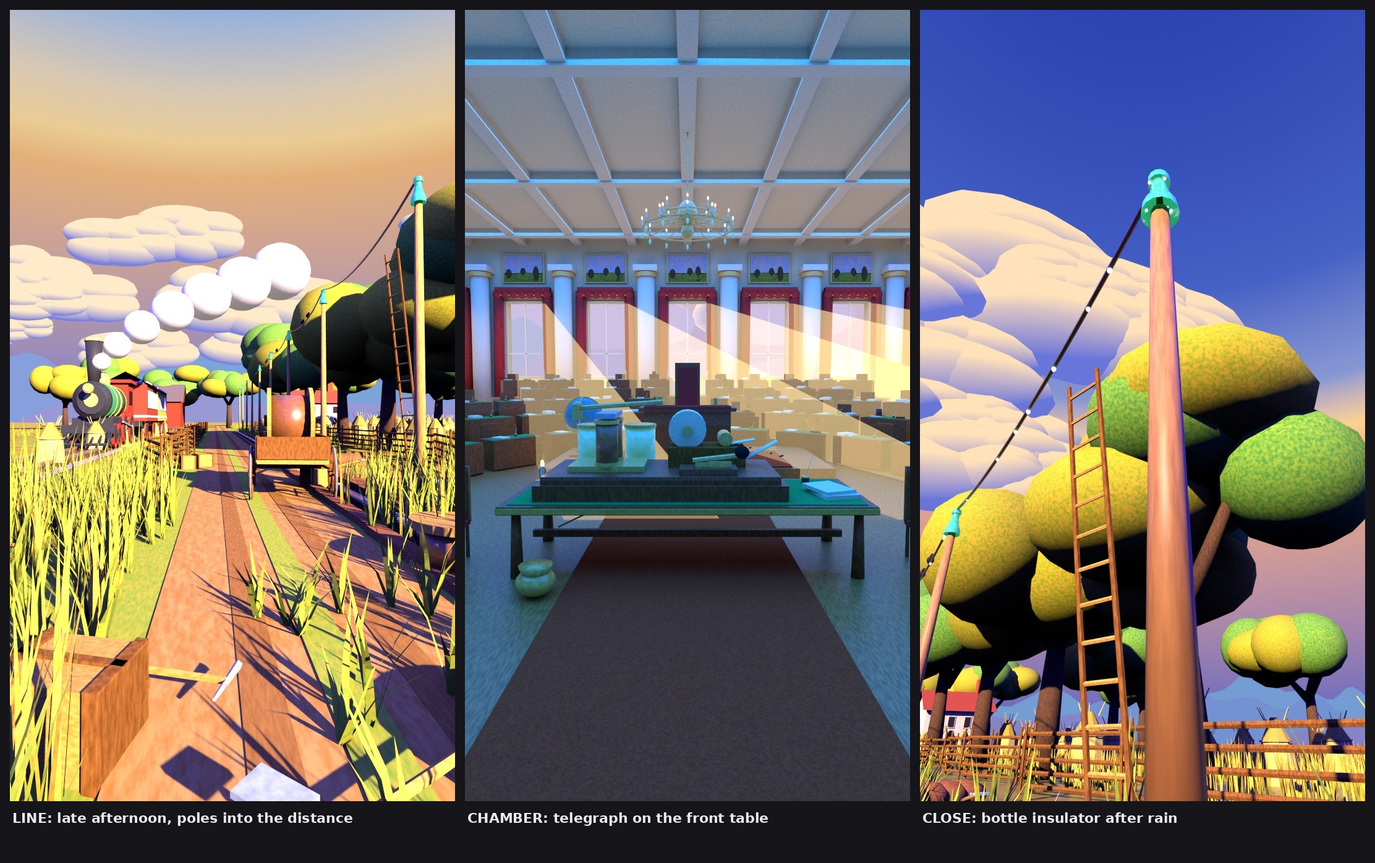
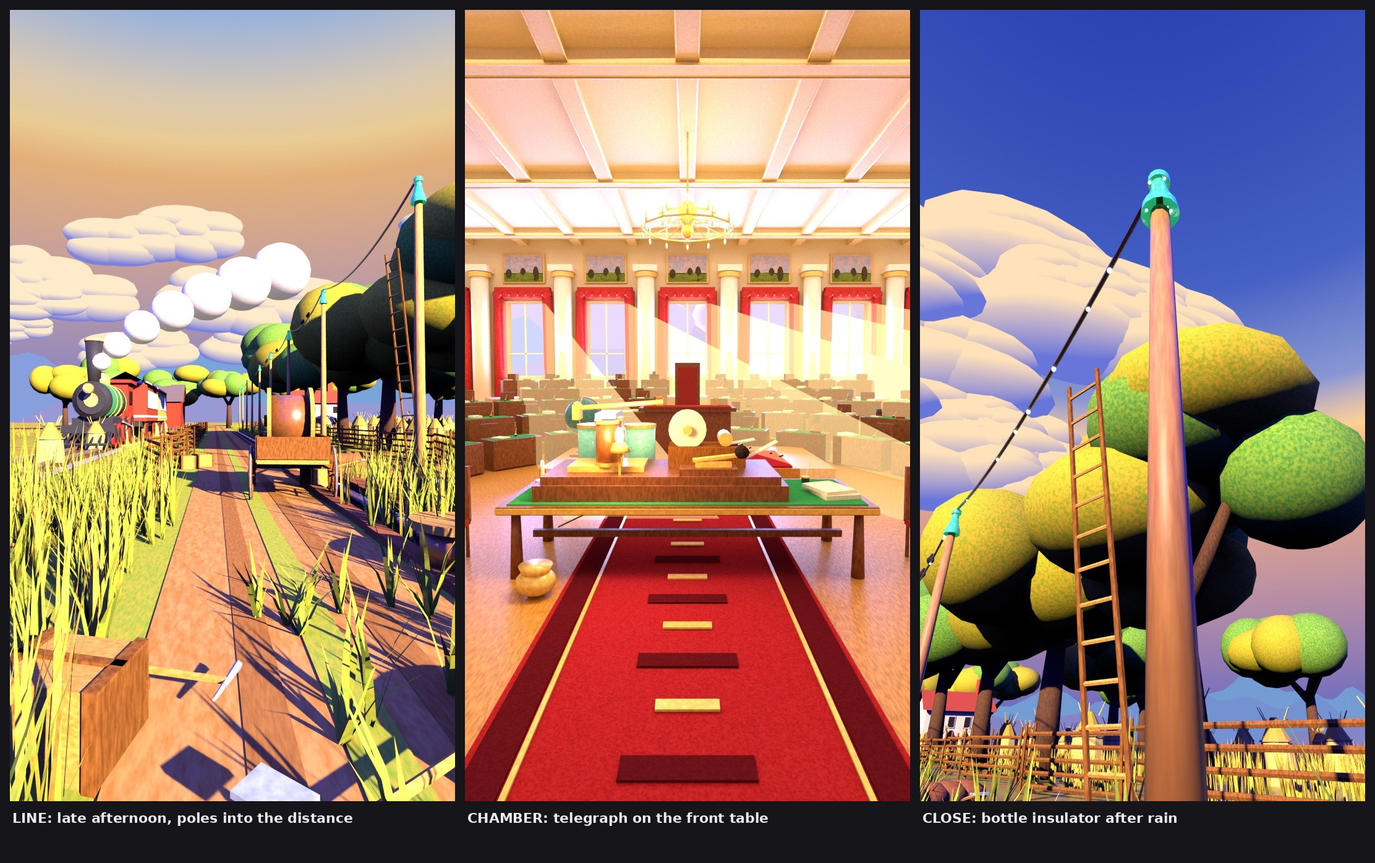
Film 16 style board v2: warm chamber; board ready for client
Claude-Session: https://claude.ai/code/session_017iwyCubH2HLT9mxU3qDwtU

Changed region(s): [[0.3103, 0.0, 0.6826, 0.9549]]

diff --git a/film/v3/set3d16/styleboard/sb.py b/film/v3/set3d16/styleboard/sb.py
@@ -181,8 +181,8 @@ def palette(mode):
     d['spool'] = mat('spool', '#a8602c', '#cc8040', 3, rough=0.35, sheen=0.8, wave=(90, '#5e3218'))
     d['bird'] = mat('bird', '#2a2428', '#3a3238', 2)
     # chamber
-    d['floor'] = mat('floor', '#94592a', '#bf8040', 8, aniso=(1, 0.2, 1), contrast=1.6, rough=0.4, sheen=0.4)
-    d['carpet'] = mat('carpet', '#963a22', '#b04c2c', 10, contrast=1.2)
+    d['floor'] = mat('floor', '#a8702c', '#d4964a', 8, aniso=(1, 0.2, 1), contrast=1.6, rough=0.4, sheen=0.4)
+    d['carpet'] = mat('carpet', '#8c1a24', '#a82a32', 10, contrast=1.2)
     d['baize'] = mat('baize', '#2c8040', '#40a05a', 12)
     d['wall'] = mat('wall', '#f2e4c0', '#e4d0a0', 2.0, contrast=0.8)
     d['marble'] = mat('marble', '#f6ecd6', '#e8dcc0', 2.5, contrast=0.8)
@@ -192,6 +192,7 @@ def palette(mode):
     d['paper'] = mat('paper', '#f6ecd2', '#e8dcc0', 6)
     d['ink'] = mat('ink', '#1c1a22', '#2c2a34', 3, rough=0.2, sheen=0.8)
     d['flame'] = mat_emit('flame', '#ffb84a', 22.0)
+    d['carpetdk'] = mat('carpetdk', '#4a0e16', '#5a1620', 10)
     d['hat'] = mat('hat', '#26201c', '#3a302a', 3, rough=0.5, sheen=0.5)
     d['globe'] = mat('globe', '#3c74b0', '#4f9a58', 3, contrast=2.0, rough=0.4, sheen=0.5)
     d['frame'] = mat('frame', '#c8962c', '#f0c858', 5, rough=0.3, sheen=0.8)
@@ -691,8 +692,12 @@ def build_chamber(P):
     mb.box(M['wall'], (-22.5, 13, 7), (1, 44, 14)); mb.box(M['wall'], (22.5, 13, 7), (1, 44, 14)); mb.box(M['wall'], (0, -9, 7), (46, 1, 14))
     mb.box(M['wall'], (0, 13, 12.8), (46, 44, 0.6))
     for i in range(-5, 6):
-        mb.box(M['cream'], (i * 4.0, 13, 12.3), (0.6, 44, 0.4))
-    for j in range(0, 5): mb.box(M['cream'], (0, j * 9.0 - 5, 12.25), (46, 0.6, 0.5))
+        mb.box(M['wall'], (i * 4.0, 13, 12.3), (0.6, 44, 0.4)); mb.box(M['gold'], (i * 4.0 - 0.33, 13, 12.12), (0.06, 44, 0.07)); mb.box(M['gold'], (i * 4.0 + 0.33, 13, 12.12), (0.06, 44, 0.07))
+    for j in range(0, 5):
+        mb.box(M['wall'], (0, j * 9.0 - 5, 12.25), (46, 0.6, 0.5)); mb.box(M['gold'], (0, j * 9.0 - 5.33, 12.0), (46, 0.06, 0.07)); mb.box(M['gold'], (0, j * 9.0 - 4.67, 12.0), (46, 0.06, 0.07))
+    for sx in (-1.3, 1.3): mb.box(M['carpetdk'], (sx, 14, 0.04), (0.28, 40, 0.02)); mb.box(M['gold'], (sx * 0.86, 14, 0.045), (0.04, 40, 0.02))
+    for yy in np.arange(-5.0, 34.0, 1.2):
+        mb.box(M['gold'], (0, yy, 0.045), (0.5, 0.12, 0.02)); mb.box(M['carpetdk'], (0, yy + 0.6, 0.04), (0.9, 0.2, 0.02))
     win_x = [-18, -12, -6, 0, 6, 12, 18]; BY = 34.0
     window_wall(mb, M, BY, win_x)
     for sx in (-1, 1):                                          # side wall windows (dark panes) + pilasters
@@ -710,6 +715,8 @@ def build_chamber(P):
             mb.cyl(M['gold'], (c + sg * 1.85, BY - 0.9, 3.0), 0.34, 0.05, 'z', 10)
         mb.box(M['drape'], (c, BY - 0.9, 8.7), (4.0, 0.5, 0.55)); mb.cyl(M['gold'], (c, BY - 1.17, 8.4), 0.05, 4.0, 'x', 6)
         for k in range(7): mb.ell(M['drape'], (c - 1.8 + k * 0.6, BY - 1.1, 8.45), (0.35, 0.2, 0.3), (10, 6))
+    for x in (-9, 3, 9):                                          # wall sconces on the columns: bracket, cup, candle, flame
+        mb.box(M['gold'], (x, BY - 1.9, 4.2), (0.1, 0.3, 0.1)); mb.cyl(M['gold'], (x, BY - 2.1, 4.35), 0.08, 0.1, 'z', 10); mb.cyl(M['cream'], (x, BY - 2.1, 4.55), 0.03, 0.3, 'z', 8); mb.ell(M['flame'], (x, BY - 2.1, 4.8), (0.035, 0.035, 0.09), (6, 4))
     # speaker's dais + rostrum
     mb.box(M['floor'], (0, 10.5, 0.2), (7.0, 3.6, 0.4)); mb.box(M['carpet'], (0, 10.0, 0.42), (5.0, 2.4, 0.04))
     mb.box(M['walnut'], (0, 11.2, 1.0), (2.4, 0.9, 1.2)); mb.box(M['walnut'], (0, 11.2, 1.65), (2.7, 1.1, 0.1)); mb.box(M['leather'], (0, 11.0, 1.72), (2.4, 0.8, 0.04))
@@ -751,6 +758,7 @@ def build_chamber(P):
     telegraph(mb, M, (tx - 0.35, ty + 0.1, 0.96), 3.5)
     mb.box(M['paper'], (tx + 2.0, ty - 0.2, 0.99), (0.5, 0.65, 0.06), rz=0.2); mb.box(M['paper'], (tx + 1.95, ty - 0.18, 1.04), (0.46, 0.6, 0.05), rz=0.35)
     mb.cyl(M['ink'], (tx + 1.8, ty + 0.5, 0.99), 0.06, 0.1, 'z', 10); mb.cyl(M['brass'], (tx + 1.8, ty + 0.5, 1.05), 0.065, 0.02, 'z', 10); mb.rod(M['paper'], (tx + 1.8, ty + 0.5, 1.05), (tx + 1.95, ty + 0.62, 1.4), 0.008, 0.003, 4)
+    mb.cyl(M['gold'], (tx - 0.9, ty - 0.45, 1.3), 0.02, 0.6, 'z', 6); mb.cyl(M['gold'], (tx - 0.9, ty - 0.45, 1.65), 0.15, 0.12, 'z', 12, True, r2=0.08); mb.ell(M['flame'], (tx - 0.9, ty - 0.45, 1.8), (0.06, 0.06, 0.12), (8, 6))
     mb.cyl(M['gold'], (tx - 2.0, ty - 0.2, 1.05), 0.1, 0.22, 'z', 10); mb.cyl(M['cream'], (tx - 2.0, ty - 0.2, 1.25), 0.03, 0.2, 'z', 8); mb.ell(M['flame'], (tx - 2.0, ty - 0.2, 1.38), (0.025, 0.025, 0.06), (6, 4))   # candlestick
     # coiled wire entering table from the floor
     for k in range(7): mb.cyl(M['wiremat'], (tx - 1.9, ty + 0.2, 0.05 + k * 0.045), 0.3, 0.03, 'z', 16) if False else None
@@ -805,9 +813,9 @@ PRESETS = {
     cam=dict(loc=(-0.2, -6.0, 1.9), look=(1.6, 30.0, 2.9), lens=22), samples=96),
  'chamber': dict(
     sky=[(0.0, '#7a86d6'), (0.45, '#f4c890'), (0.5, '#fbe0aa'), (0.56, '#f4e4c4'), (0.66, '#a8c6f0'), (0.82, '#5a86e4'), (1.0, '#3a5acc')], sky_k=1.0,
-    key=(1.0, 0.85, 0.63, 15.0), key_dir=kdir(-22, 15), sun_angle=1.0, exposure=0.0, sat=1.08,
+    key=(1.0, 0.85, 0.63, 15.0), key_dir=kdir(-22, 15), sun_angle=1.0, exposure=0.4, sat=1.06,
     hills=[(250, 8, 16, '#9a9ad2'), (310, 20, 28, '#8aa0d8')], hill_k=1.0, cloud=('#fff0dc', '#a8a4dc'), cloud_z=(40, 80), ncloud=6, cloud_diffuse=True,
-    g1='#a8a050', g2='#c8a858', g3='#a08048', gsize=500, fill=(0.02, 0.235, 1.0, 20000), dbounce=1, cam=dict(loc=(0.0, -2.6, 2.6), look=(0.0, 15.0, 1.5), lens=22), samples=110),
+    g1='#a8a050', g2='#c8a858', g3='#a08048', gsize=500, fill=(0.81, 0.69, 0.53, 6500), winfill=(0.19, 0.24, 0.69, 2500), dbounce=3, cam=dict(loc=(0.0, -2.6, 2.6), look=(0.0, 15.0, 1.5), lens=22), samples=110),
  'close': dict(
     sky=[(0.0, '#4a62c0'), (0.45, '#f0b080'), (0.5, '#f8d098'), (0.58, '#8a98d0'), (0.74, '#4a64c0'), (1.0, '#2a3fa8')], sky_k=1.0,
     key=(1.0, 0.85, 0.63, 9.0), key_dir=kdir(-125, 24), sun_angle=0.8, exposure=0.0, sat=1.08, amb=('#3038FF', 2.2), bottle_s=2.3, pole_h=4.8, sag=0.45, wire_r=0.03, drops=0.9,
@@ -822,10 +830,18 @@ def lights(P, mode):
     d = bpy.data.lights.new('key', 'SUN'); d.color = k[:3]; d.energy = k[3]; d.angle = math.radians(P['sun_angle'])
     o = bpy.data.objects.new('key', d); sc.collection.objects.link(o); o.rotation_euler = (-kd).to_track_quat('Z', 'Y').to_euler()
     if mode == 'chamber':
-        l = bpy.data.lights.new('fill', 'AREA'); l.shape = 'RECTANGLE'; l.size = 36; l.size_y = 36; l.color = P['fill'][:3]; l.energy = P['fill'][3]
-        ob = bpy.data.objects.new('fill', l); ob.location = (0, 13, 12.2); sc.collection.objects.link(ob); ob.visible_camera = False       # points down (-Z) by default
-        l4 = bpy.data.lights.new('fillup', 'AREA'); l4.shape = 'RECTANGLE'; l4.size = 36; l4.size_y = 36; l4.color = P['fill'][:3]; l4.energy = P['fill'][3] * 0.16
-        ob4 = bpy.data.objects.new('fillup', l4); ob4.location = (0, 13, 1.2); ob4.rotation_euler = (math.pi, 0, 0); sc.collection.objects.link(ob4); ob4.visible_camera = False
+        def area(name, loc, rot, size, col, en, cam=False):
+            l = bpy.data.lights.new(name, 'AREA'); l.shape = 'RECTANGLE'; l.size = size[0]; l.size_y = size[1]; l.color = col; l.energy = en
+            ob = bpy.data.objects.new(name, l); ob.location = loc; ob.rotation_euler = rot; sc.collection.objects.link(ob); ob.visible_camera = cam; return ob
+        def point(name, loc, col, en, r=0.15):
+            l = bpy.data.lights.new(name, 'POINT'); l.color = col; l.energy = en; l.shadow_soft_size = r
+            ob = bpy.data.objects.new(name, l); ob.location = loc; sc.collection.objects.link(ob)
+        area('fill', (0, 13, 12.2), (0, 0, 0), (36, 36), P['fill'][:3], P['fill'][3])            # warm-neutral cream bounce from the ceiling
+        for k, c in enumerate([-18, -12, -6, 0, 6, 12, 18]):                                       # small blue-violet sky fill through each window plane
+            area('win%d' % k, (c, 33.3, 5.2), (-math.pi / 2, 0, 0), (2.8, 5.5), P['winfill'][:3], P['winfill'][3])
+        for (x, y) in [(-1.4, 17), (1.4, 17), (0, 18.4), (0, 15.6)]: point('flame', (x, y, 8.6), (1.0, 0.68, 0.34), 90)      # chandelier candles
+        for x in (-9, 3, 9): point('sconce', (x, 31.6, 4.6), (1.0, 0.66, 0.3), 70)                  # wall sconces
+        point('lamp', (-0.9, 3.2, 2.3), (1.0, 0.72, 0.4), 160, 0.3)                                  # warm practical lamp over the telegraph
     if mode != 'chamber' and P.get('dome'):
         dm = P['dome']; l = bpy.data.lights.new('dome', 'AREA'); l.shape = 'SQUARE'; l.size = dm[4]; l.color = dm[:3]; l.energy = dm[3]
         ob = bpy.data.objects.new('dome', l); ob.location = (0, 100, 200); sc.collection.objects.link(ob); ob.visible_camera = False
